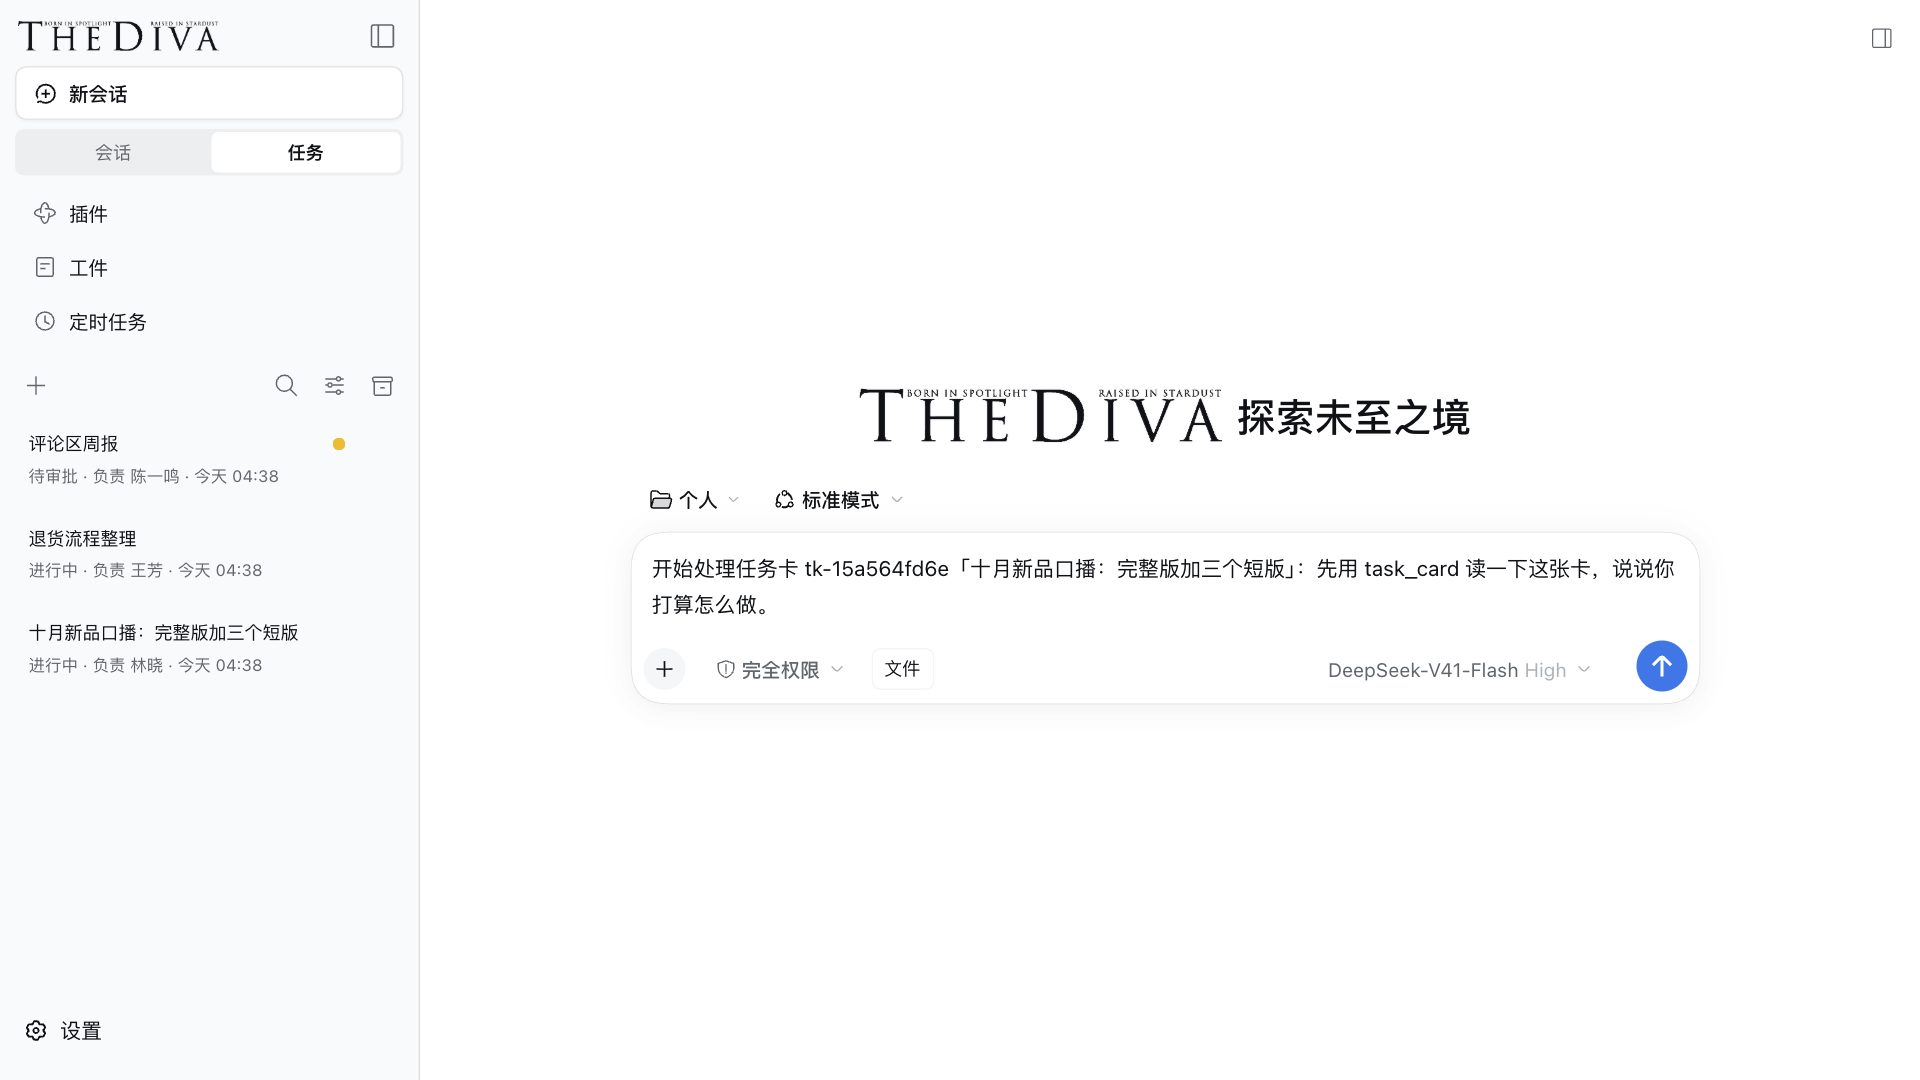
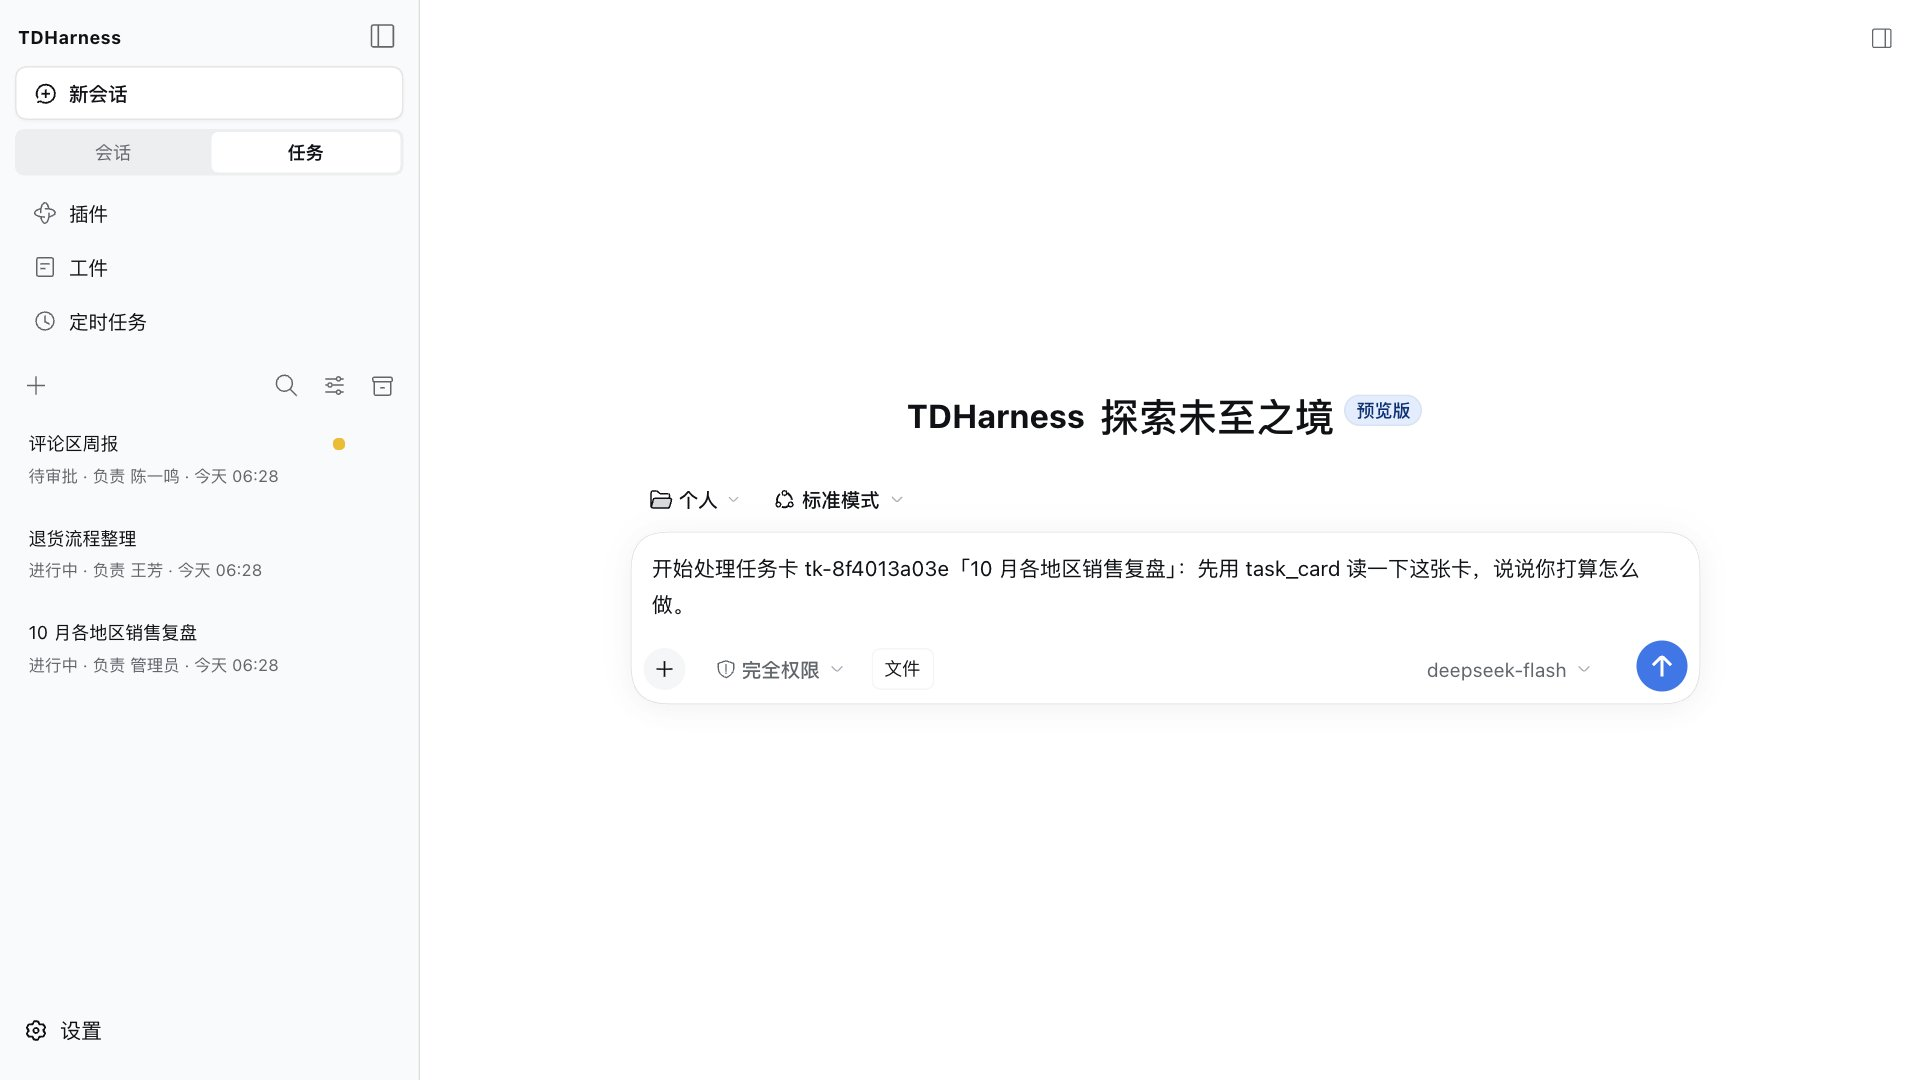
Front page opens with the agent at work; all screenshots retaken on the current desk (2026.11.10)
The first image is a real conversation: the agent reads a sales sheet in the
workspace, sums it by region and writes the review file. The sheet is made
up; the answer is the model's. Session, colleagues, personnel and tasks are
retaken on the current interface, which shows the product name instead of
one company's logo. People, tasks and usage are demo data.

No server or client code changes.

diff --git a/README.en.md b/README.en.md
@@ -8,9 +8,9 @@
 [![release](https://img.shields.io/github/v/release/398894496-arch/TDHarness?label=release)](https://github.com/398894496-arch/TDHarness/releases)
 [![license](https://img.shields.io/badge/license-MIT-blue)](LICENSE)
 
-**Version: 2026.11.09.2**
+**Version: 2026.11.10**
 
-![Task cards: opening one starts a conversation pinned to that card](docs/screenshots/04-tasks.jpg)
+![The agent read a sales sheet in the workspace, summed it by region and wrote the review file in 28 seconds](docs/screenshots/00-agent-at-work.jpg)
 
 TDHarness (TDH) lets a company run AI agents inside its own office network:
 
@@ -23,12 +23,12 @@ Built on [DeepSeek Harness](https://github.com/deepseek-ai/deepseek-harness) (`d
 
 ## What it looks like
 
-| Session | Colleagues | Personnel |
+| Tasks | Colleagues | Personnel |
 | --- | --- | --- |
-| ![Session](docs/screenshots/01-session.jpg) | ![Colleagues](docs/screenshots/02-colleagues.jpg) | ![Personnel](docs/screenshots/03-personnel.jpg) |
-| Personal and team workspaces, model picker, access level | Who is online, role, last login, 7-day local cost estimate | Roster by department; deactivate, remove, force a fresh sign-in |
+| ![Tasks](docs/screenshots/04-tasks.jpg) | ![Colleagues](docs/screenshots/02-colleagues.jpg) | ![Personnel](docs/screenshots/03-personnel.jpg) |
+| Cards with a state and an owner; opening one starts work on it | Who is online, role, last login, 7-day usage | Roster by department; change roles, deactivate, revoke tokens |
 
-The screenshots use made-up people and tasks. Each screen is described in [docs/PRODUCT.md](docs/PRODUCT.md#what-the-running-desk-does).
+The top screenshot is a real conversation: the sales sheet is made up, the answer is the model's. People, tasks and usage in the screenshots are demo data. Each screen is described in [docs/PRODUCT.md](docs/PRODUCT.md#what-the-running-desk-does).
 
 ## Is it for you?
 

diff --git a/CHANGELOG.md b/CHANGELOG.md
@@ -4,6 +4,15 @@
 
 The version is the release date. Every merge to `main` bumps `VERSION`, adds a section at the top of this file and updates the version line in `README.md` and `README.en.md`; CI enforces it and publishes a tagged release.
 
+## 2026.11.10
+
+**首页第一张图换成 AI 干活中的真实对话，另外四张截图重拍**
+- 首页第一张图现在是一段真实对话：让 AI 读工作区里的销售表，按地区汇总，找出增长最快和下滑的地区，写成复盘文件，28 秒完成。销售表是编的，回答由模型生成（deepseek-flash，经演示用的网关）。
+- 会话、同事、人员、任务四张截图按当前界面重拍。旧图左上角是某一家公司的标志，新图显示产品名 TDHarness。人名、任务和用量都是演示数据。
+- 首页「长什么样」一栏的第一格从空的会话页换成任务页。
+- 截图用的演示环境只监听本机：人员服务、知识库检索、模型网关用的是本仓库 `server/` 里的原文件，客户端是 `client/CompanyDesk-mac.zip` 加 `desk/` 源码。这只是拍图用的搭法，不是受支持的安装方式。
+- 这一版没有改服务器和客户端的任何代码，已装的站点不需要更新。
+
 ## 2026.11.09.2
 
 **仓库改名为 TDHarness，开了讨论区**

diff --git a/docs/PRODUCT.md b/docs/PRODUCT.md
@@ -35,7 +35,7 @@ Two tabs: **会话** (chat) and **任务** (tickets). Sidebar splits **个人** 
 
 ### Colleagues
 
-![Colleagues: weekly Grok quota, 7-day ledger, online, role, spend](screenshots/02-colleagues.jpg)
+![Colleagues: subscription quota, 7-day ledger, online, role, spend](screenshots/02-colleagues.jpg)
 
 Settings → **同事**. Weekly model quota, a **7-day company ledger** using a **local price list** (explicitly not the vendor invoice), per-account role (admin / director / employee), online, last login, 7-day spend.
 

diff --git a/docs/BRIEF.zh.md b/docs/BRIEF.zh.md
@@ -2,7 +2,7 @@
 
 本页是按客户评估口径写的详细讲解。安装步骤见首页 [README](../README.md)，英文对应页是 [PRODUCT.md](PRODUCT.md)。不含站点地址、主机名、花名册人名；截图里的人名和任务都是演示数据。
 
-**当前版本：2026.11.09.2**（每一版改了什么见 [更新说明](../CHANGELOG.md)）
+**当前版本：2026.11.10**（每一版改了什么见 [更新说明](../CHANGELOG.md)）
 
 ## 交付方式：一键安装
 
